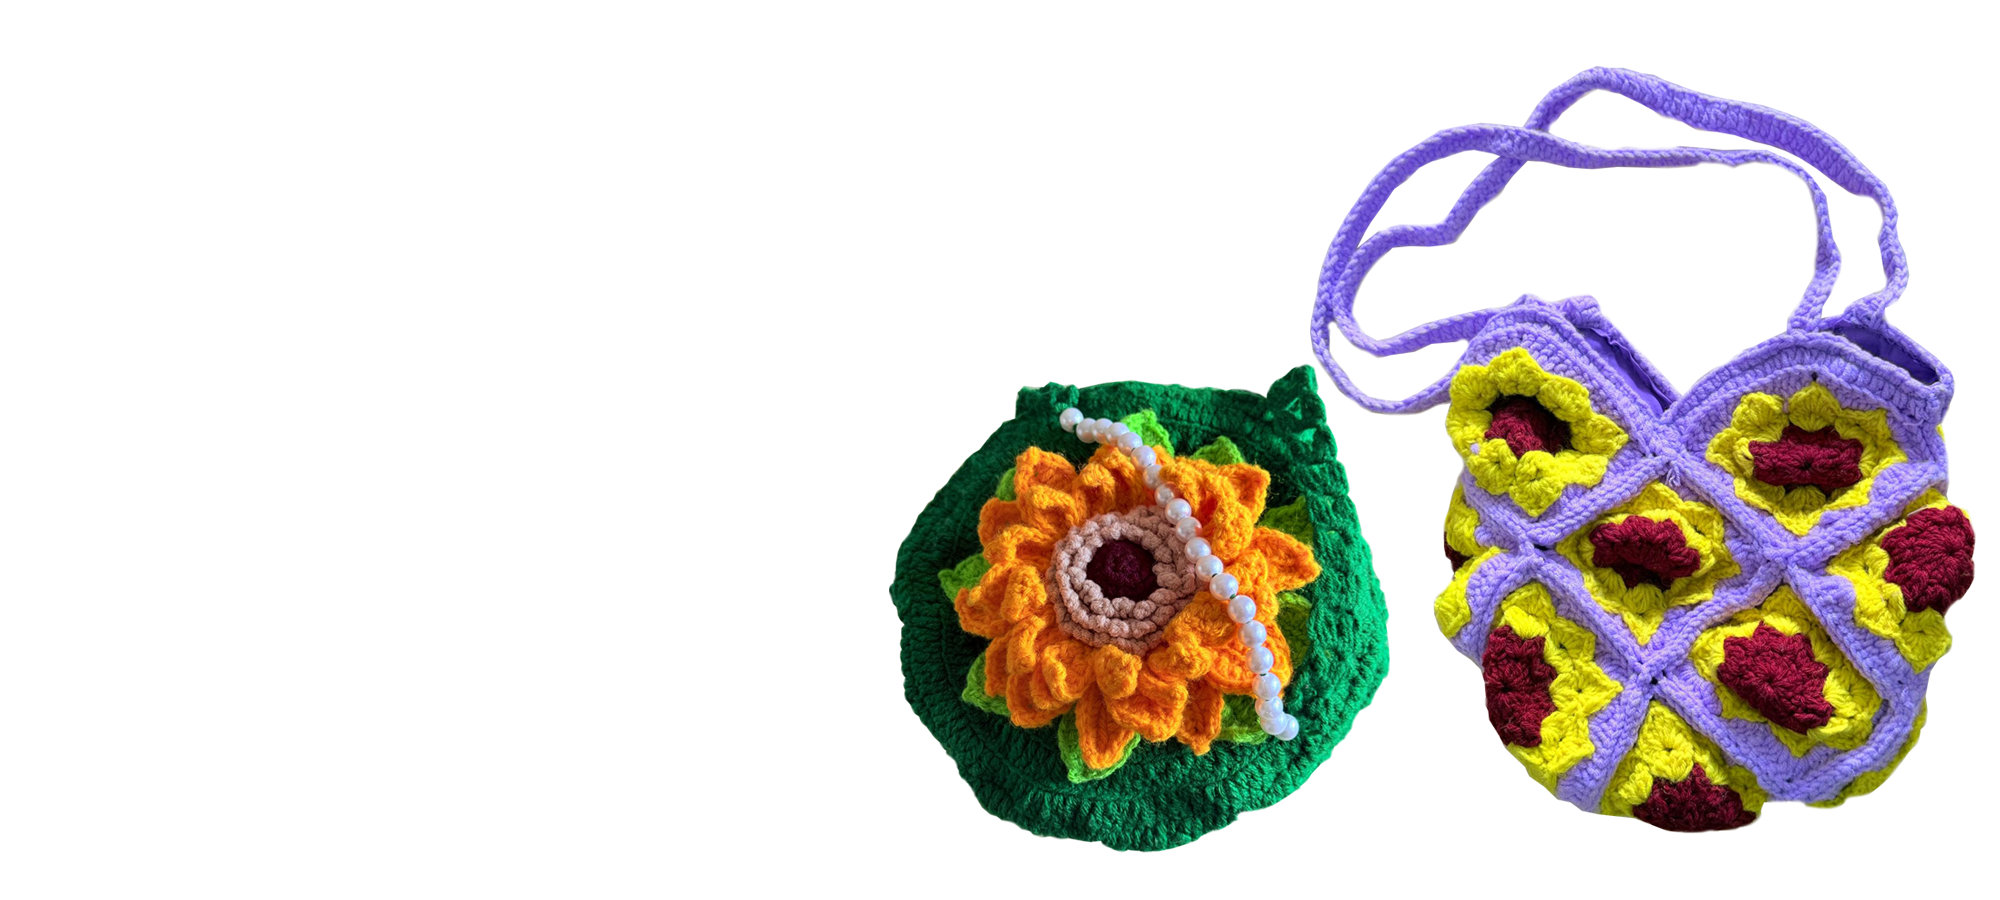
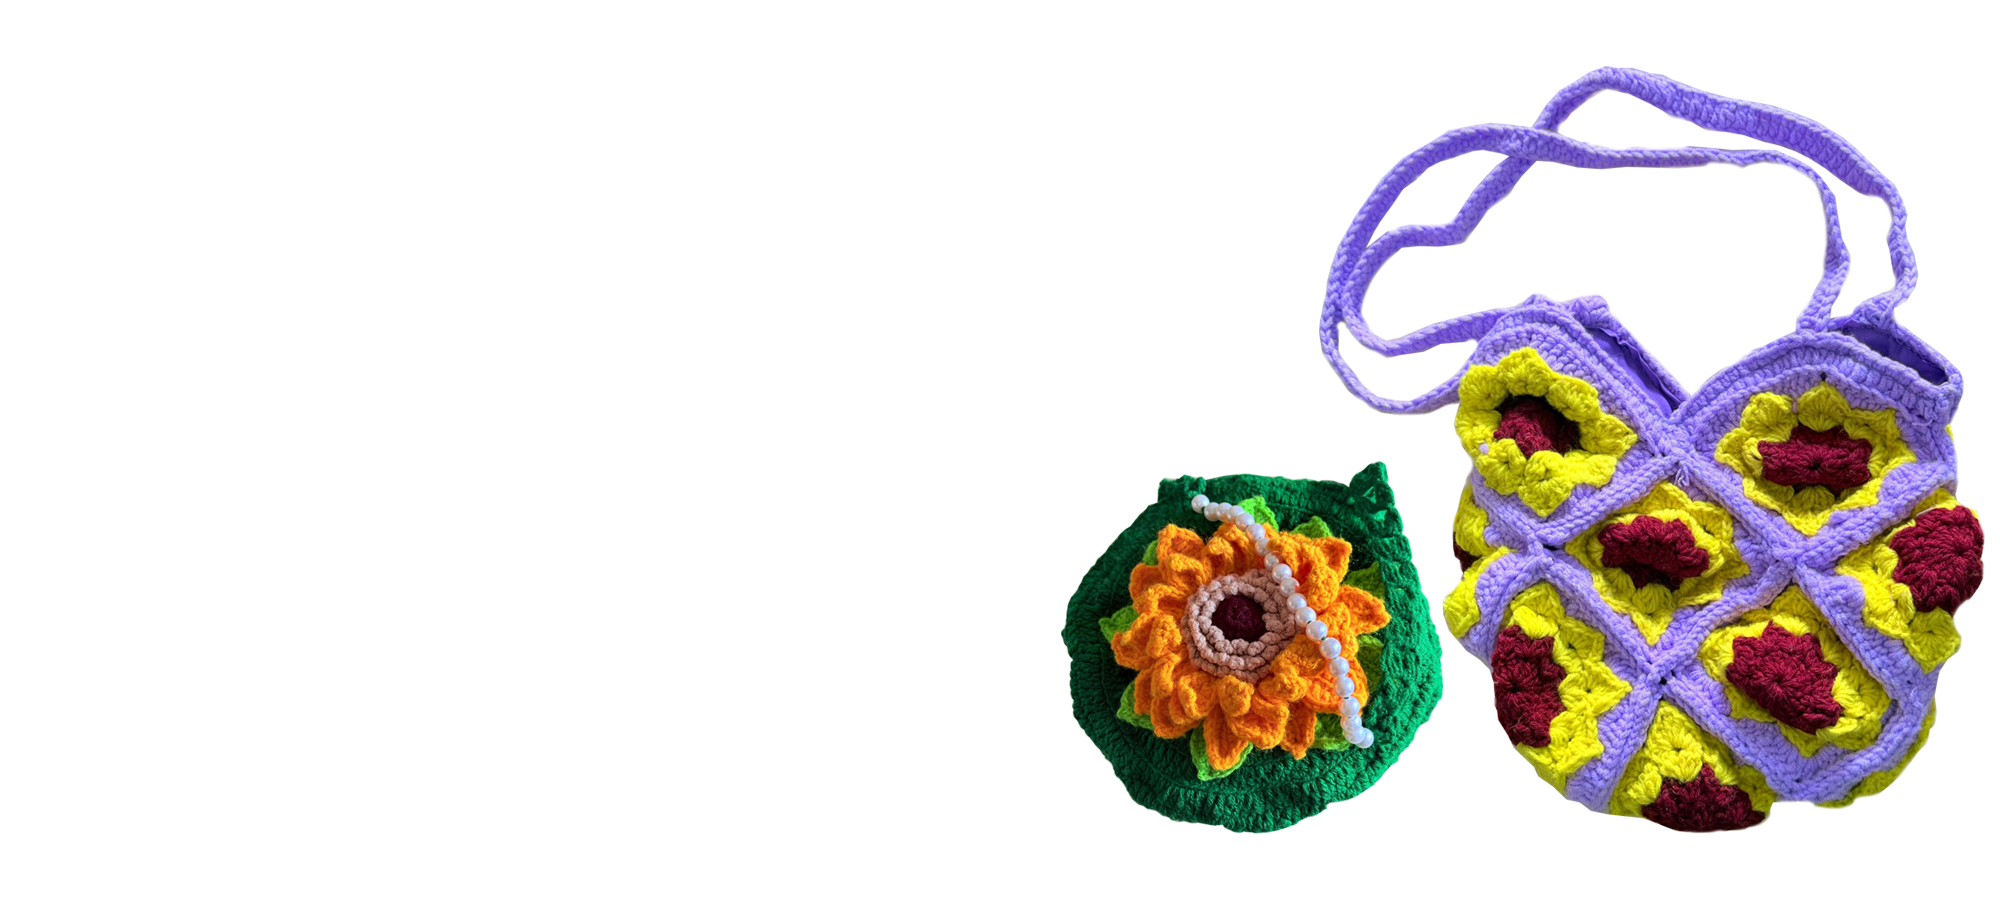
image size correction

Changed region(s): [[0.434, 0.0622, 0.992, 0.9644]]

diff --git a/components/shared/home/home-carousel.tsx b/components/shared/home/home-carousel.tsx
@@ -48,10 +48,10 @@ export function HomeCarousel({
                   className="object-cover"
                   priority
                 />
-                <div className="absolute w-1/3 left-16 md:left-30 top-1/2 transform -translate-y-1/2">
+                <div className="absolute w-1/3 left-16 md:left-32 top-1/2 transform -translate-y-1/2">
                   <h2
                     className={cn(
-                      "text-xl md:text-5xl font-extrabold text-primary"
+                      "text-xl md:text-6xl sm:text-3xl font-extrabold text-primary mb-2"
                     )}
                   >
                     {item.title}

diff --git a/lib/data.ts b/lib/data.ts
@@ -38,15 +38,15 @@ const data = {
     {
       title: "Most popular side bag for sale",
       buttonCaption: "shop now",
-      image: "/images/banner1.png",
+      image: "/images/banner2.png",
       url: "search?category=T-Shirts",
       isPublished: true,
     },
     {
       title: "Most popular wallet pouch for sale",
       buttonCaption: "shop now",
-      image: "/images/banner2.png",
-      url: "search?category=wallets",
+      image: "/images/banner1.png",
+      url: "search?category=T-Shirts",
       isPublished: true,
     },
   ],
